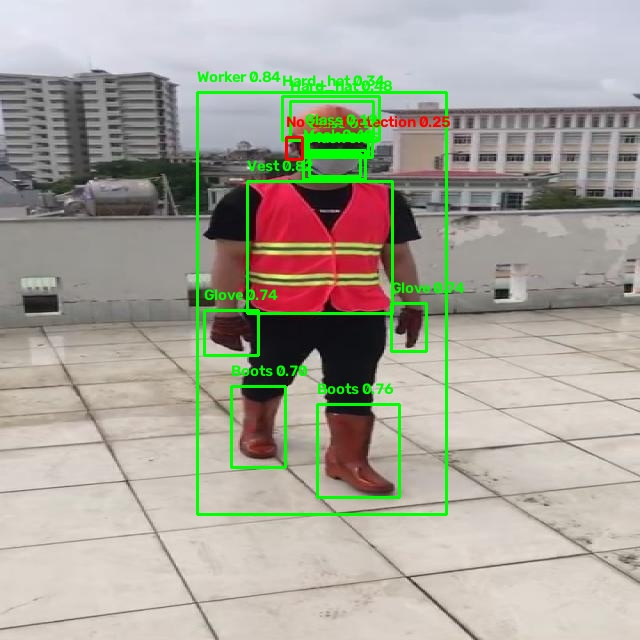
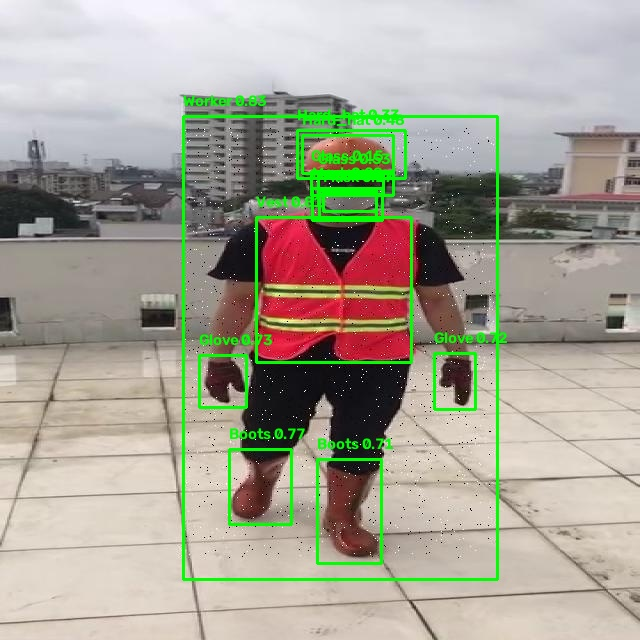
Model training and inference done

diff --git a/src/train.py b/src/train.py
@@ -4,6 +4,7 @@ import shutil
 
 
 def train_model():
+    """
     # 1. Load the Nano model (fastest model, best for CPU training)
     model_path = os.path.abspath(os.path.join(os.path.dirname(__file__), "..", "models", "yolov8n.pt"))
     model = YOLO(model_path) 
@@ -36,7 +37,7 @@ def train_model():
     print(f"Model successfully saved at {model_path}")
 
     return results
-    
+"""
 
 if __name__ == "__main__":
     train_model()
